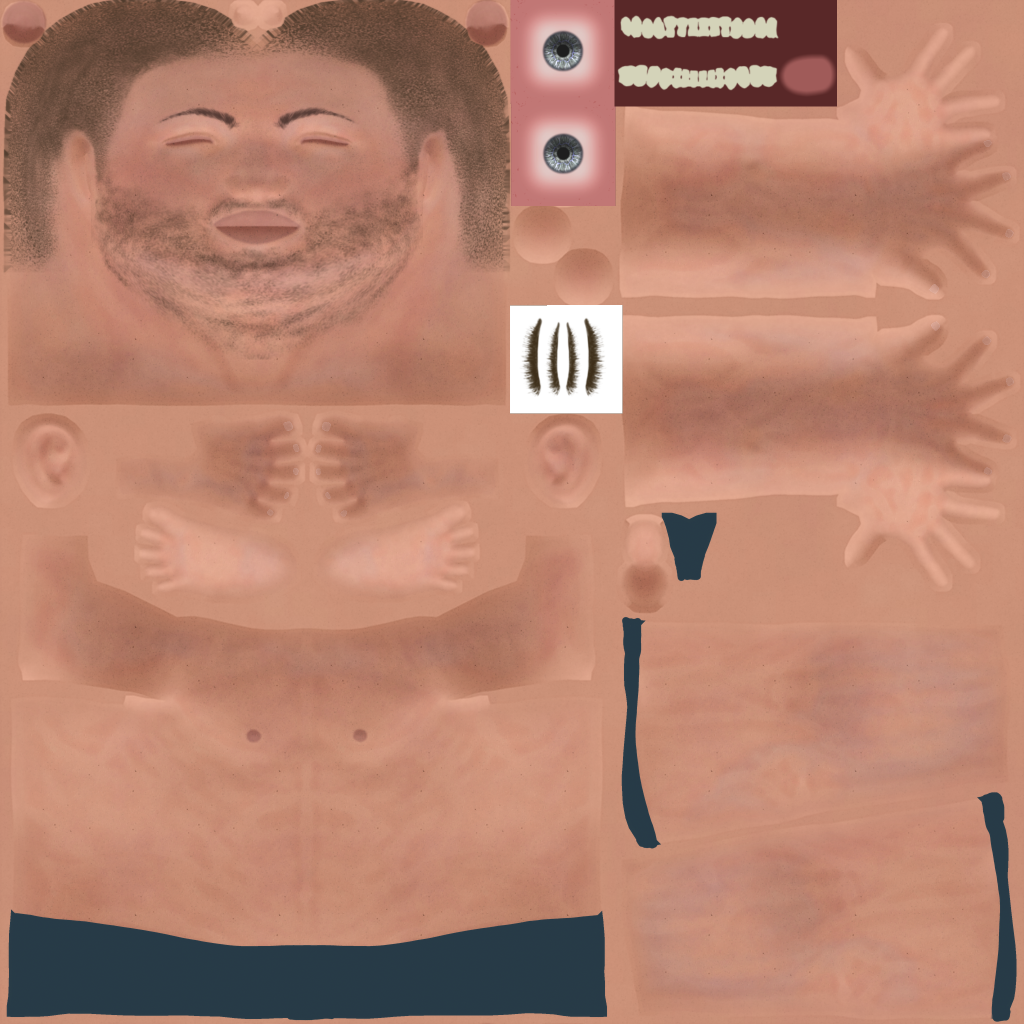
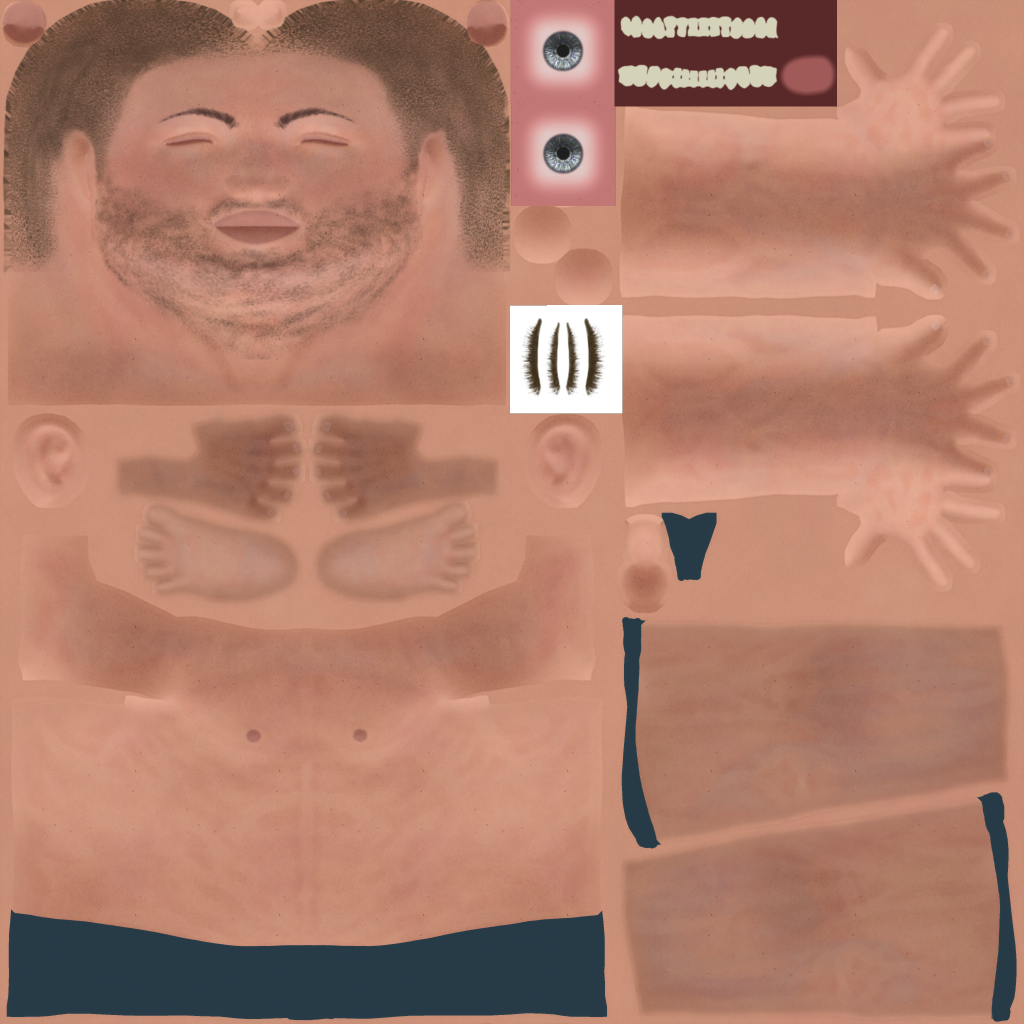
v5 агент B: персонаж — тон кожи ног подогнан к торсу в игровой копии текстуры (маска UV ног, только кожа, уровни с сохранением детали); tools/import_v5/character_leg_tone.py
Claude-Session: https://claude.ai/code/session_01Vxzrx2mBe5VwSyeTedULHJ

Changed region(s): [[0.5938, 0.5938, 1.0, 1.0], [0.125, 0.4062, 0.5, 0.5938]]

diff --git a/tools/import_v5/character_leg_tone.py b/tools/import_v5/character_leg_tone.py
@@ -1,0 +1,32 @@
+#!/usr/bin/env python3
+"""Тон кожи ног персонажа под торс (игровая копия текстуры, извлечённая Godot при импорте GLB).
+Запуск после каждого нового character_male.glb (повторный импорт может перезаписать извлечённую текстуру):
+    blender -b -P - <<<'...'  — UV ног пишет /tmp/leg_uv.json (см. ниже LEG_UV_BLENDER), затем
+    python3 tools/import_v5/character_leg_tone.py
+Маска — UV-треугольники полигонов ниже 0,86 м (в позе покоя), только тёплые пиксели кожи (шорты не трогаем);
+уровни: лёгкий контраст ×1.08 вокруг среднего ног и подгонка среднего к 0,92 × тон торса (ноги чаще на солнце)."""
+import json, numpy as np
+from PIL import Image, ImageDraw, ImageFilter
+LEG_UV_BLENDER = """
+import bpy, json
+bpy.ops.wm.read_factory_settings(use_empty=True)
+bpy.ops.import_scene.gltf(filepath="assets/user_pack/characters/character_male.glb")
+o=next(o for o in bpy.data.objects if o.type=='MESH' and o.name.startswith('Body'))
+me=o.data; uv=me.uv_layers.active.data; mw=o.matrix_world
+json.dump([[[uv[li].uv[0], uv[li].uv[1]] for li in p.loop_indices] for p in me.polygons if (mw@p.center).z<0.86], open('/tmp/leg_uv.json','w'))
+"""
+F = "assets/user_pack/characters/character_male_FuseModel_Body_Diffuse-FuseModel_Body_Opacity.png"
+im = Image.open(F).convert('RGBA'); W, H = im.size
+mask = Image.new('L', (W, H), 0); d = ImageDraw.Draw(mask)
+for poly in json.load(open('/tmp/leg_uv.json')):
+    d.polygon([(u * W, (1 - v) * H) for u, v in poly], fill=255)
+mask = mask.filter(ImageFilter.MaxFilter(5)).filter(ImageFilter.GaussianBlur(3))
+a = np.asarray(im).astype(float); m = np.asarray(mask).astype(float)[..., None] / 255
+rgb = a[..., :3]
+skin = ((rgb[..., 0] > rgb[..., 2] + 15) & (rgb[..., 0] > 60))[..., None].astype(float)
+k = m * skin
+tm = rgb[(skin[..., 0] > 0) & (m[..., 0] < 0.05)].mean(0); lm = rgb[k[..., 0] > 0.5].mean(0)
+gain = tm * 0.92 / lm
+a[..., :3] = rgb * (1 - k) + np.clip(((rgb - lm) * 1.08 + lm) * gain, 0, 255) * k
+Image.fromarray(a.astype(np.uint8), 'RGBA').save(F)
+print("торс", tm.round(1), "ноги было", lm.round(1), "стало", a[..., :3][k[..., 0] > 0.5].mean(0).round(1))
